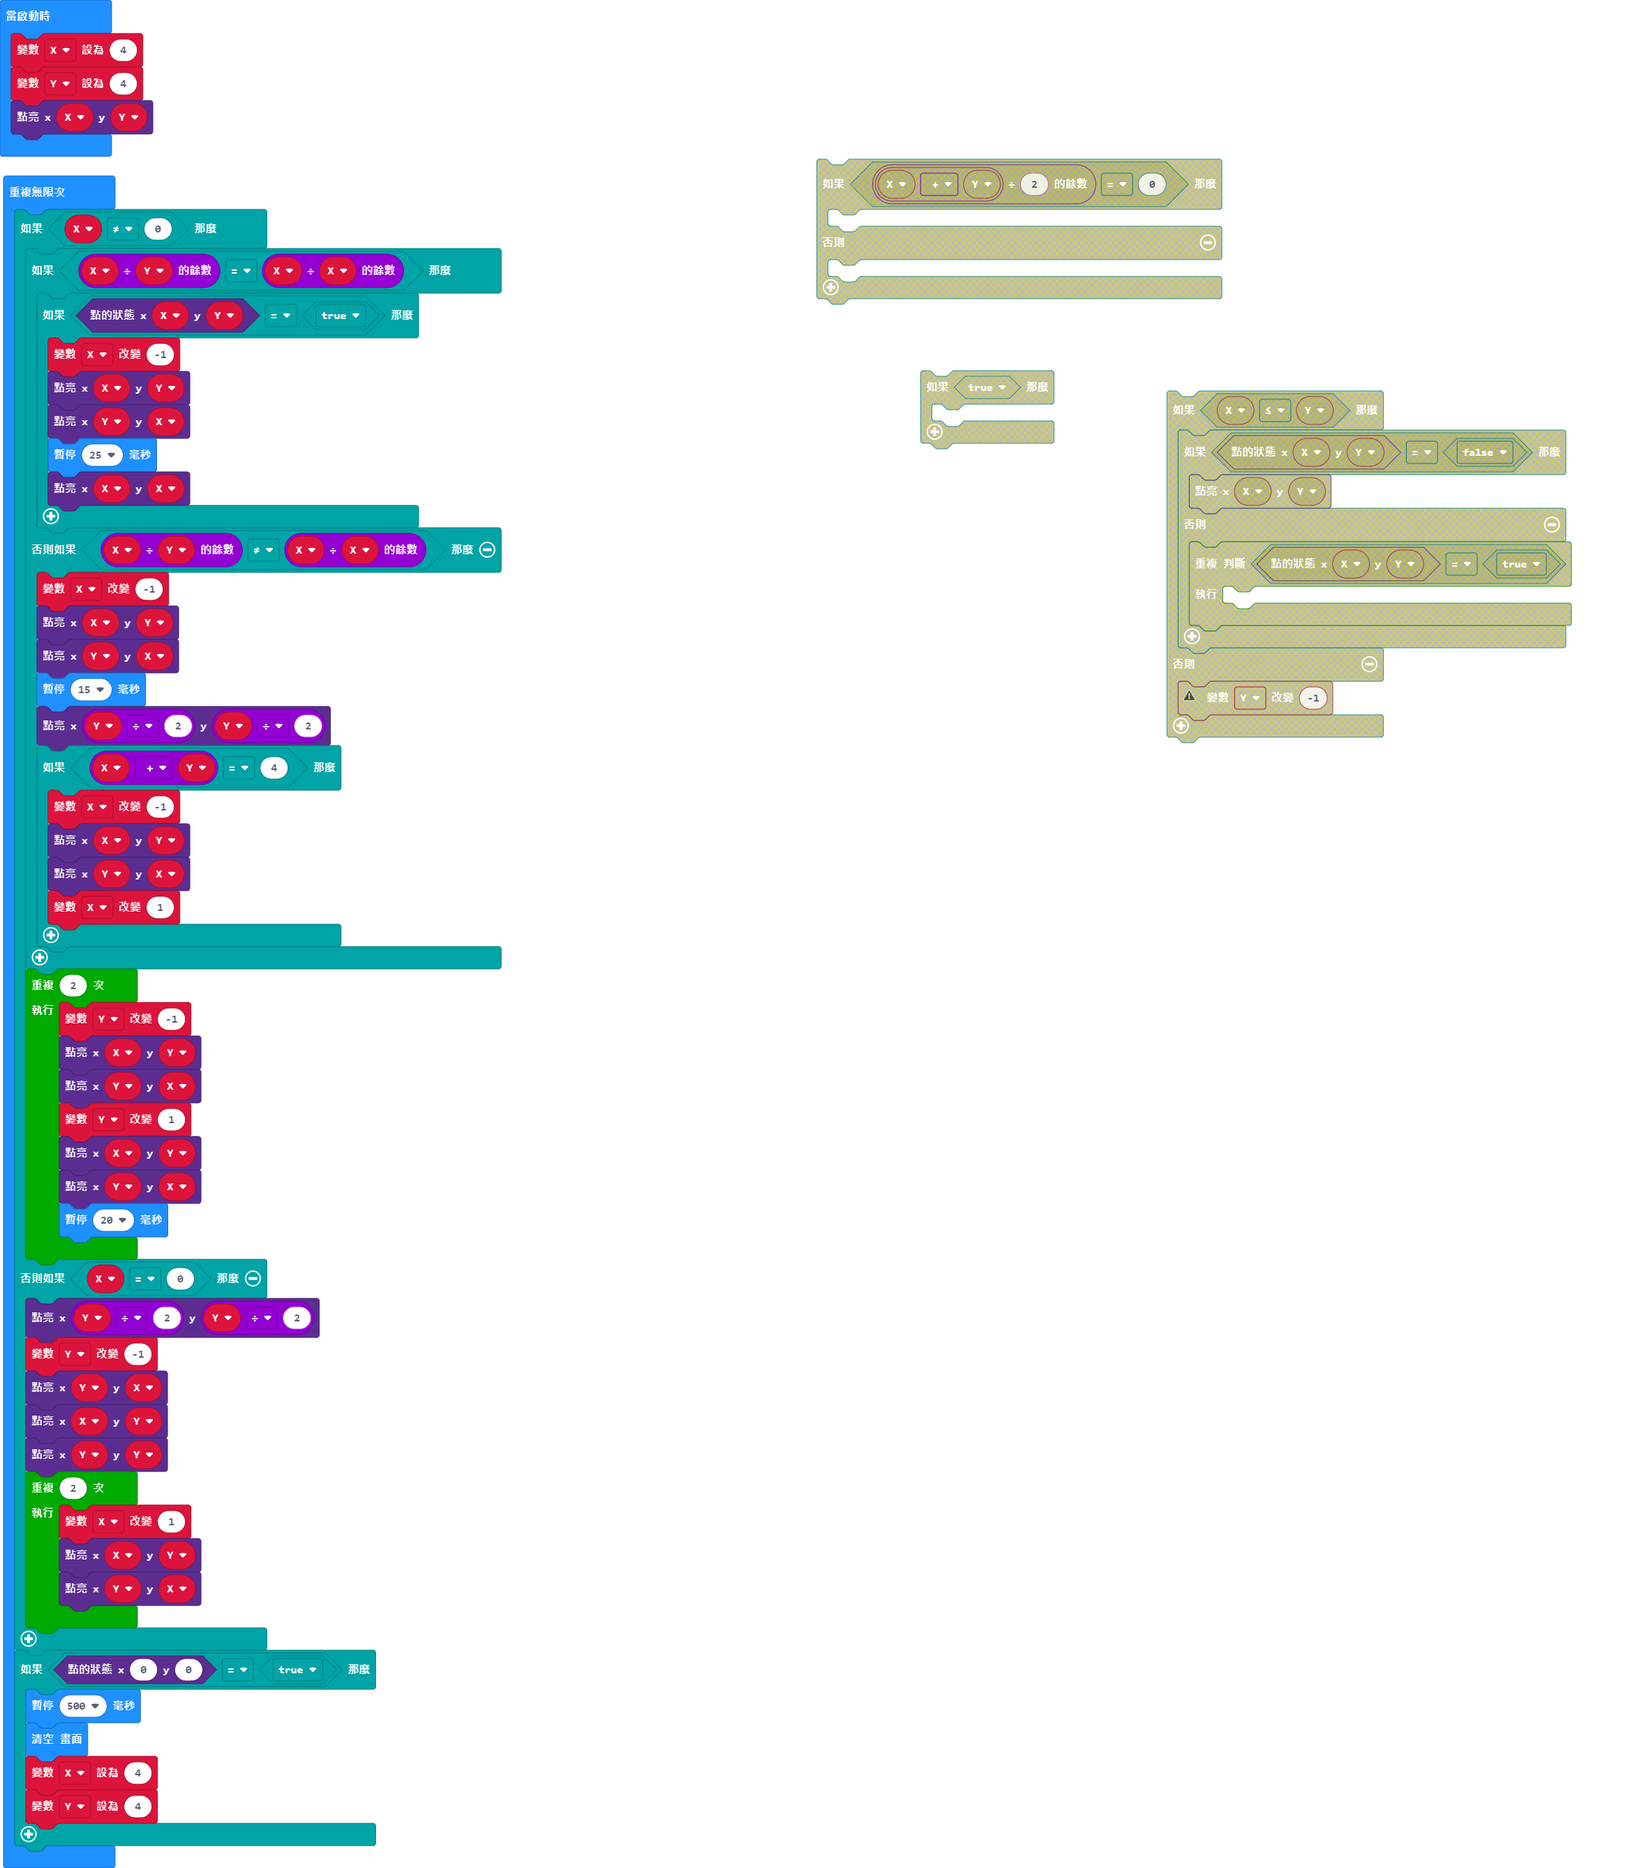
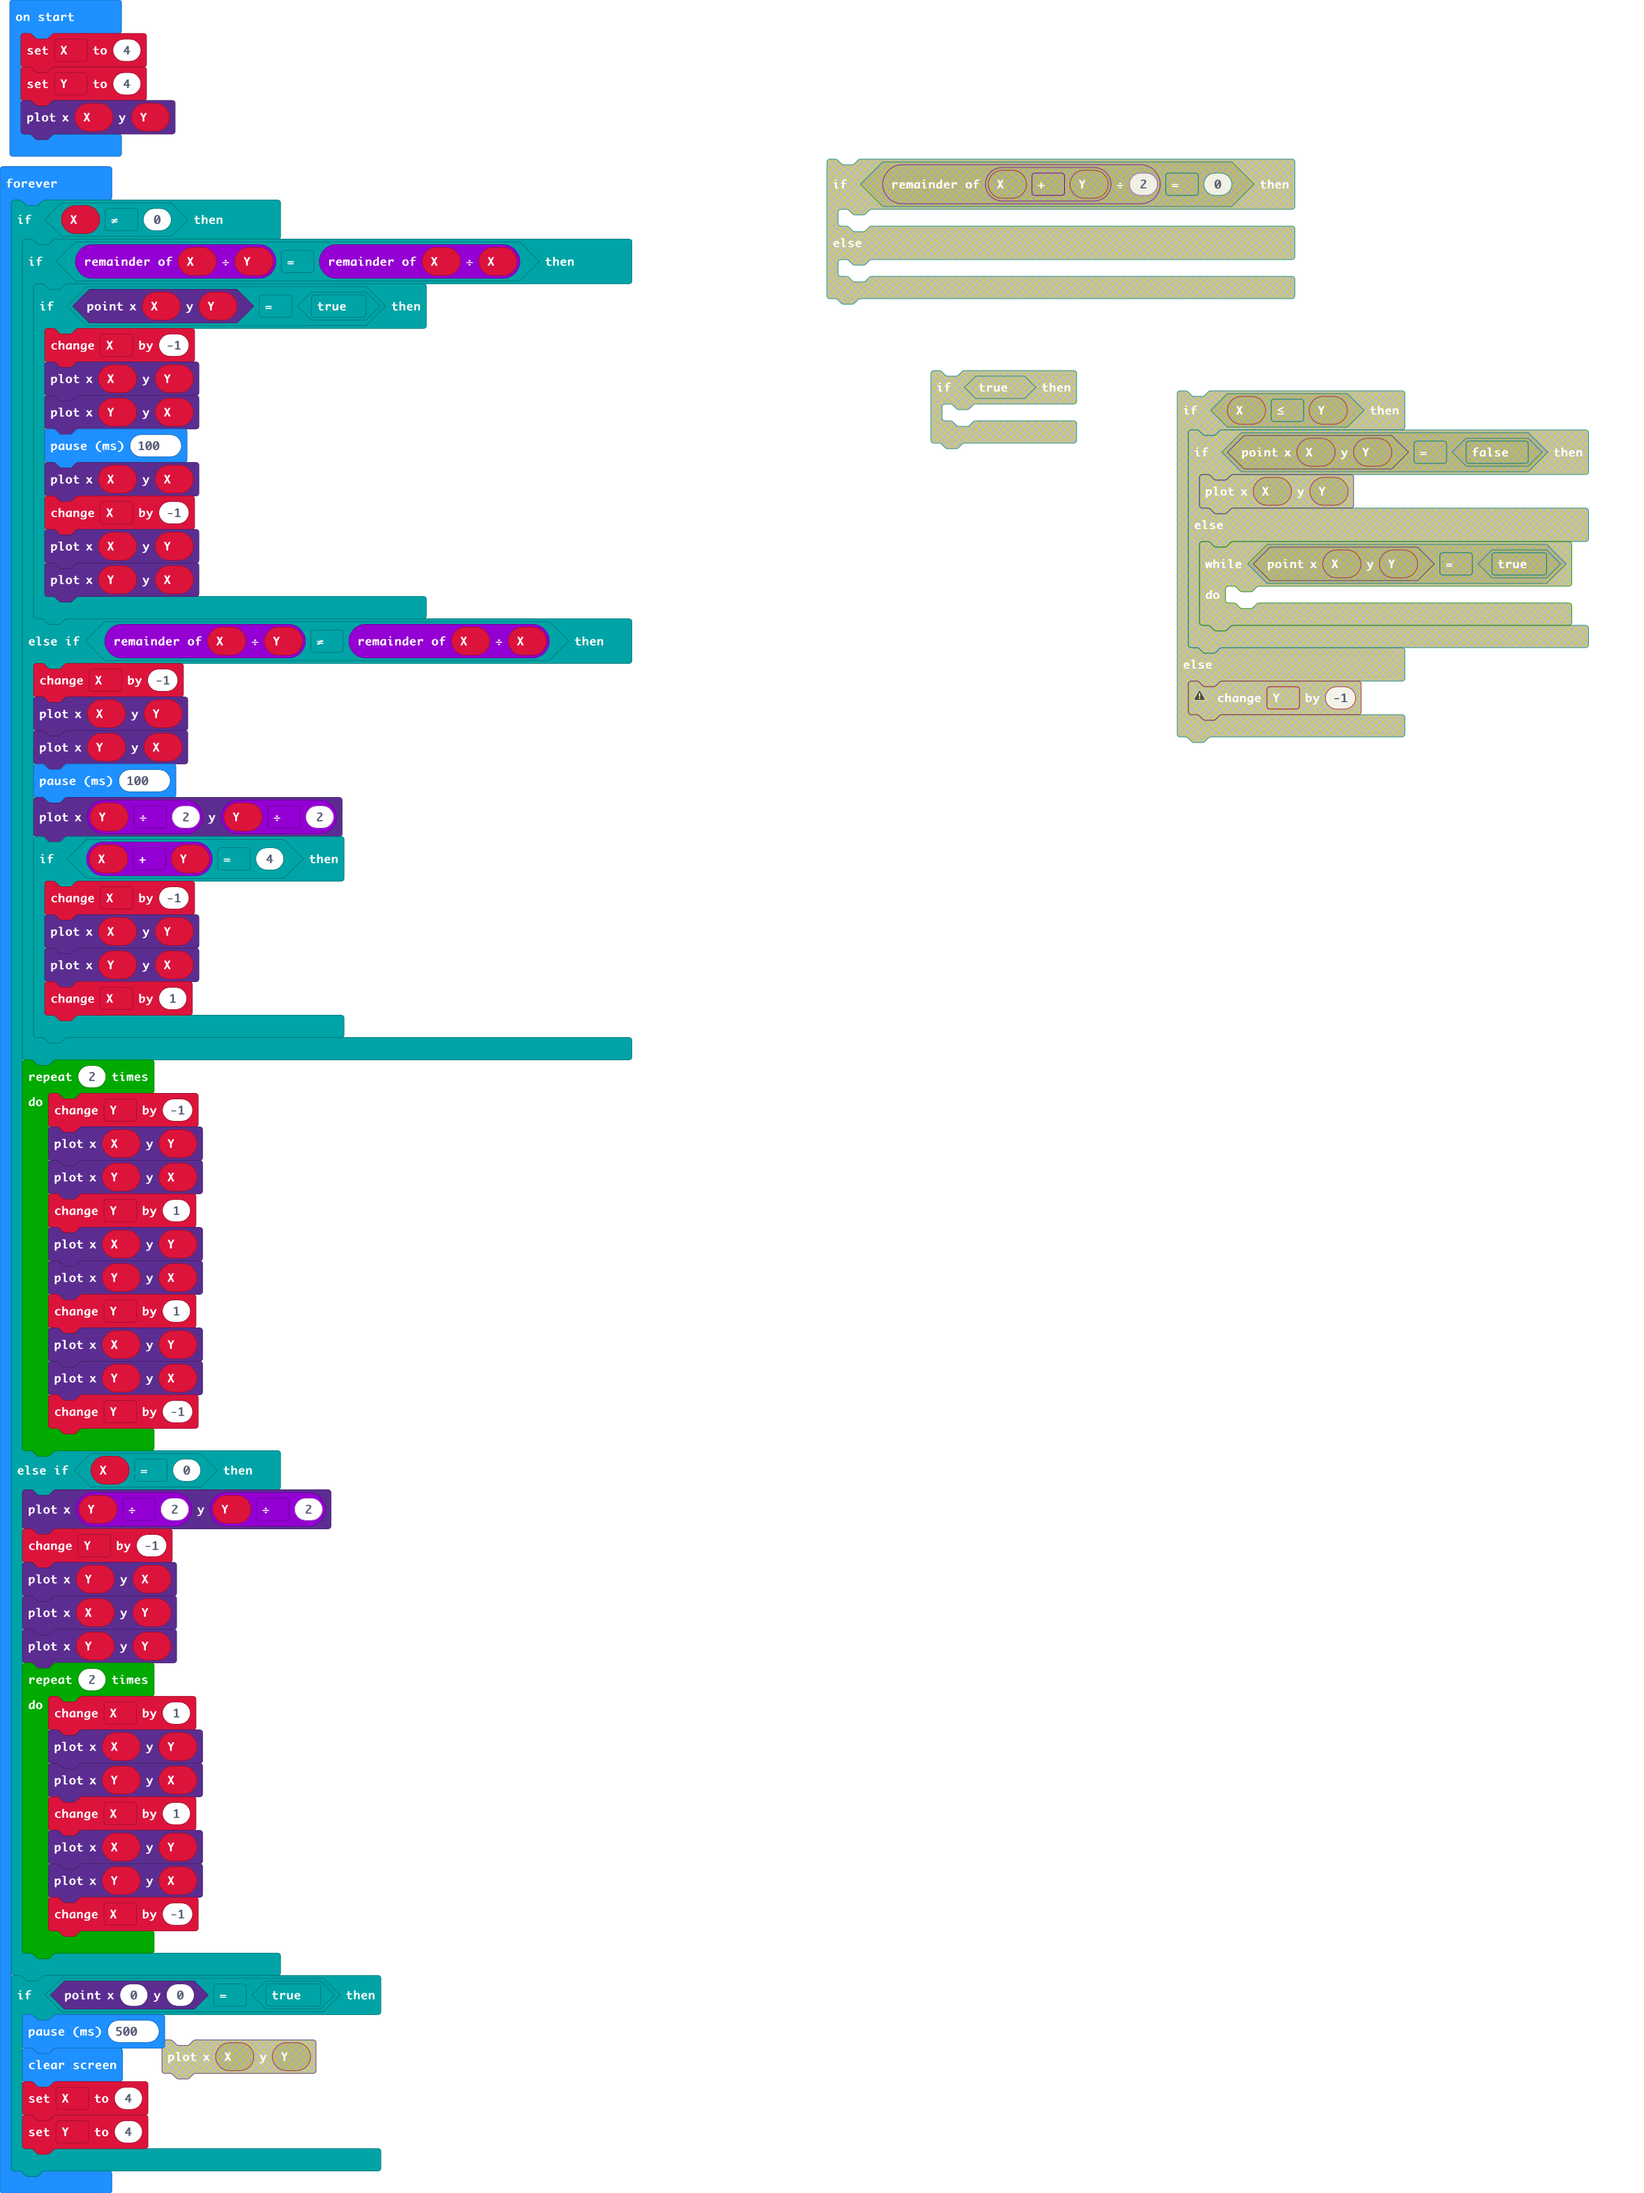
changed

Changed region(s): [[0.0, 0.0, 0.4028, 0.9925], [0.4958, 0.062, 0.9915, 0.4032]]

diff --git a/main.ts b/main.ts
@@ -8,14 +8,17 @@ basic.forever(function () {
                 X += -1
                 led.plot(X, Y)
                 led.plot(Y, X)
-                basic.pause(25)
+                basic.pause(100)
                 led.plot(X, X)
+                X += -1
+                led.plot(X, Y)
+                led.plot(Y, X)
             }
         } else if (X % Y != X % X) {
             X += -1
             led.plot(X, Y)
             led.plot(Y, X)
-            basic.pause(15)
+            basic.pause(100)
             led.plot(Y / 2, Y / 2)
             if (X + Y == 4) {
                 X += -1
@@ -31,7 +34,10 @@ basic.forever(function () {
             Y += 1
             led.plot(X, Y)
             led.plot(Y, X)
-            basic.pause(20)
+            Y += 1
+            led.plot(X, Y)
+            led.plot(Y, X)
+            Y += -1
         }
     } else if (X == 0) {
         led.plot(Y / 2, Y / 2)
@@ -43,6 +49,10 @@ basic.forever(function () {
             X += 1
             led.plot(X, Y)
             led.plot(Y, X)
+            X += 1
+            led.plot(X, Y)
+            led.plot(Y, X)
+            X += -1
         }
     }
     if (led.point(0, 0) == true) {
